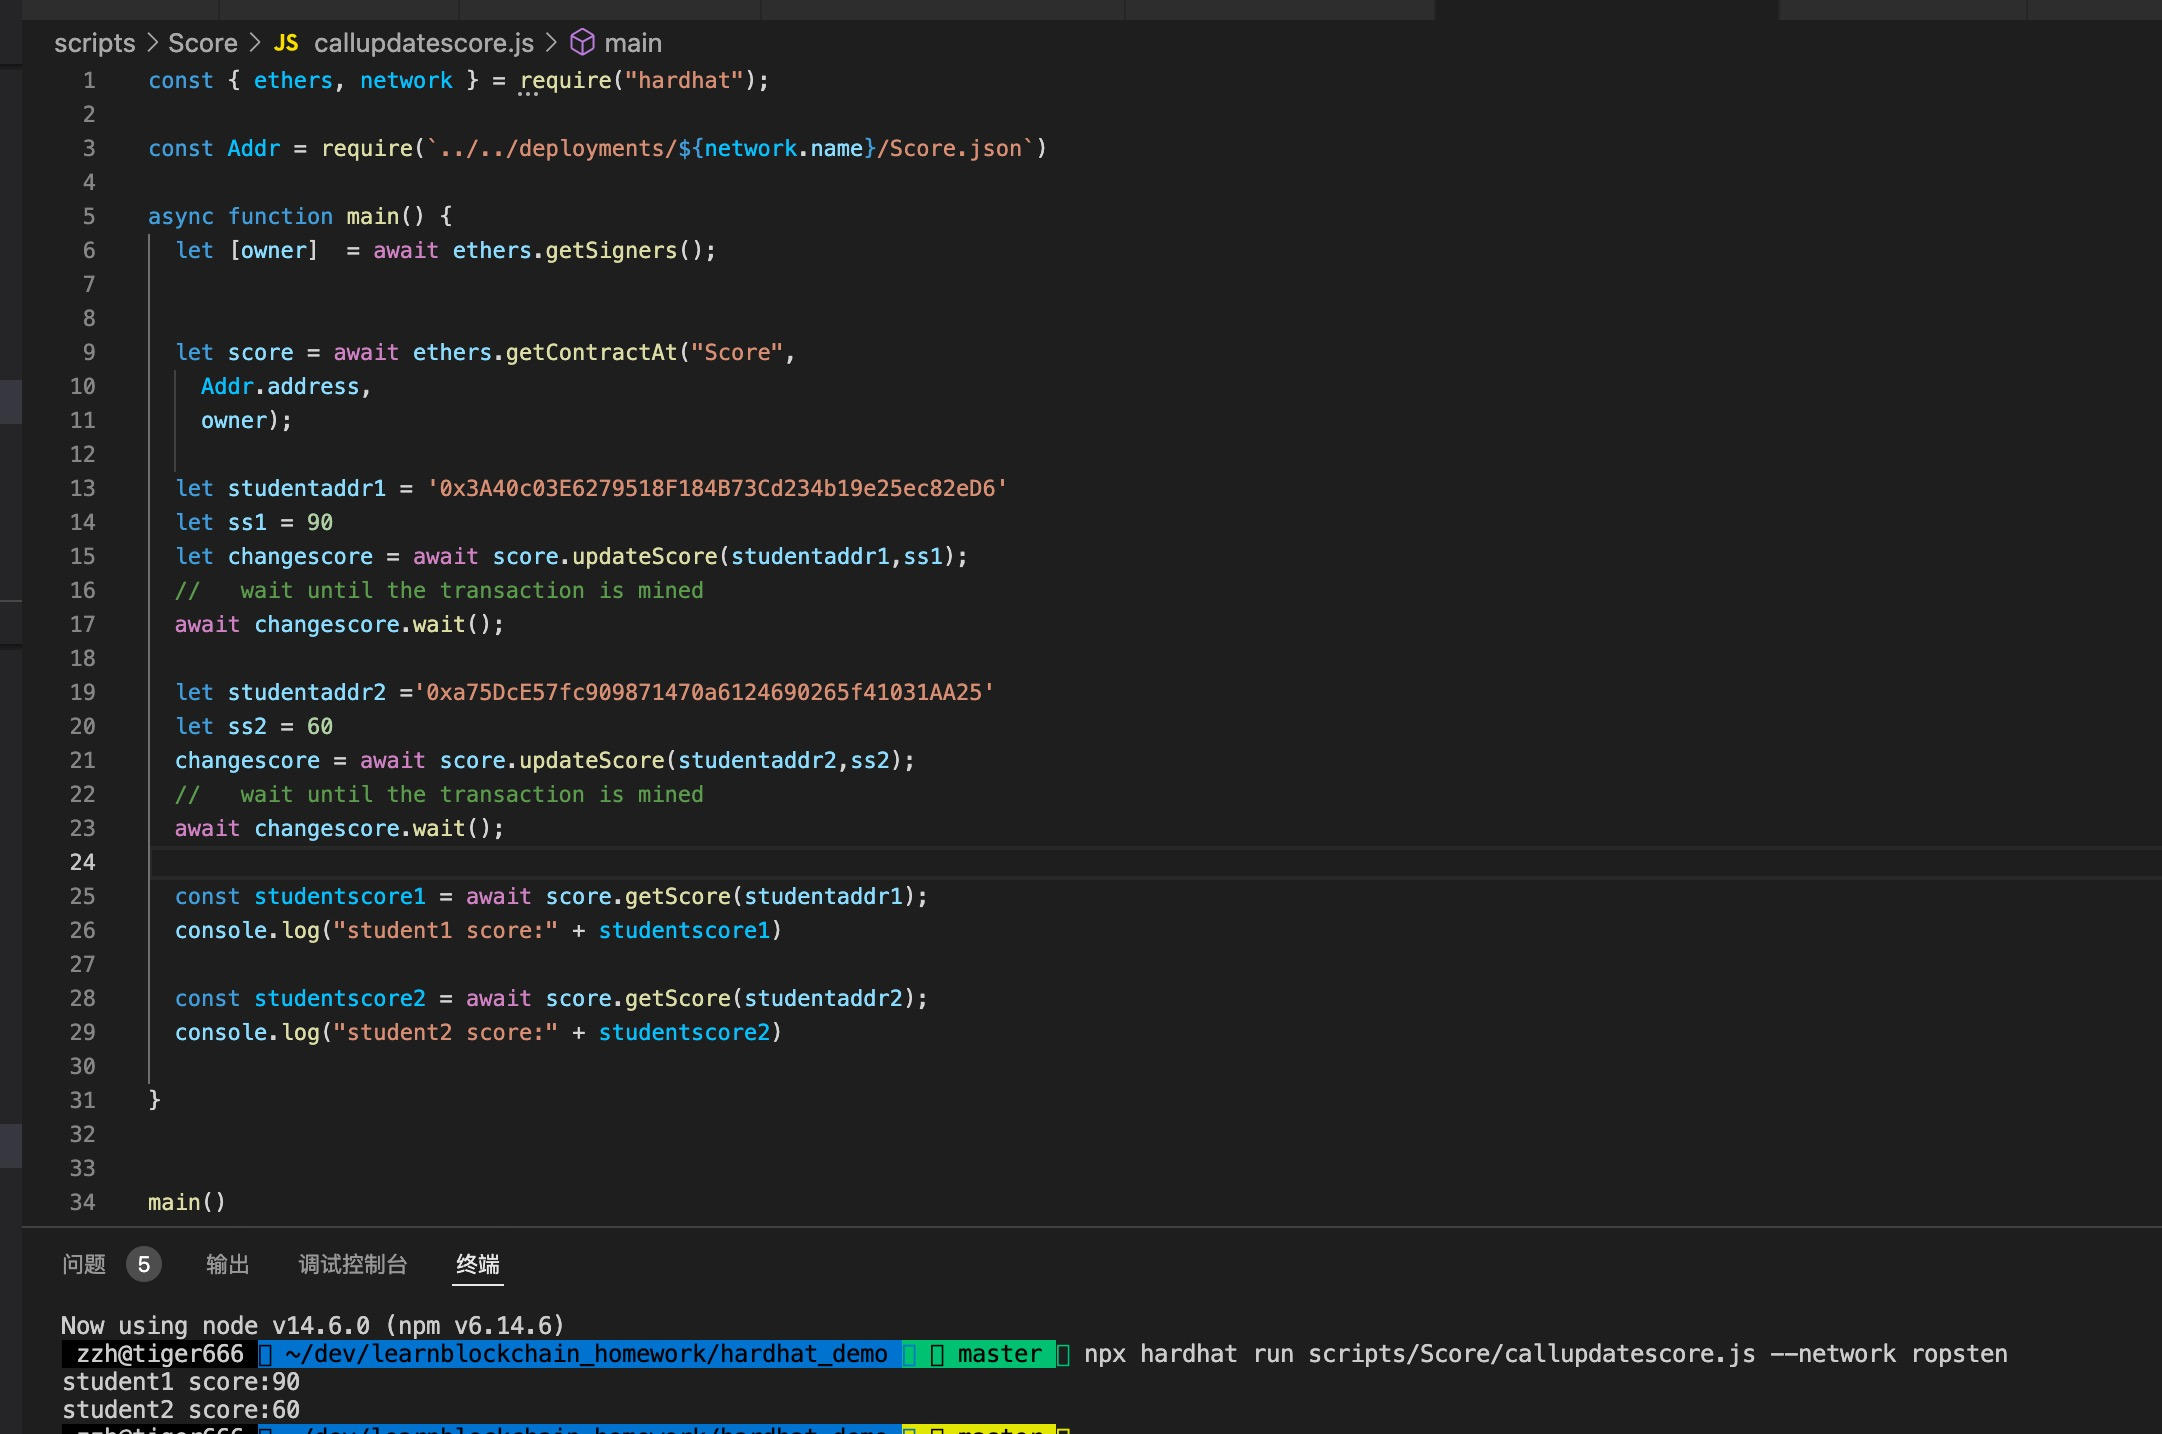
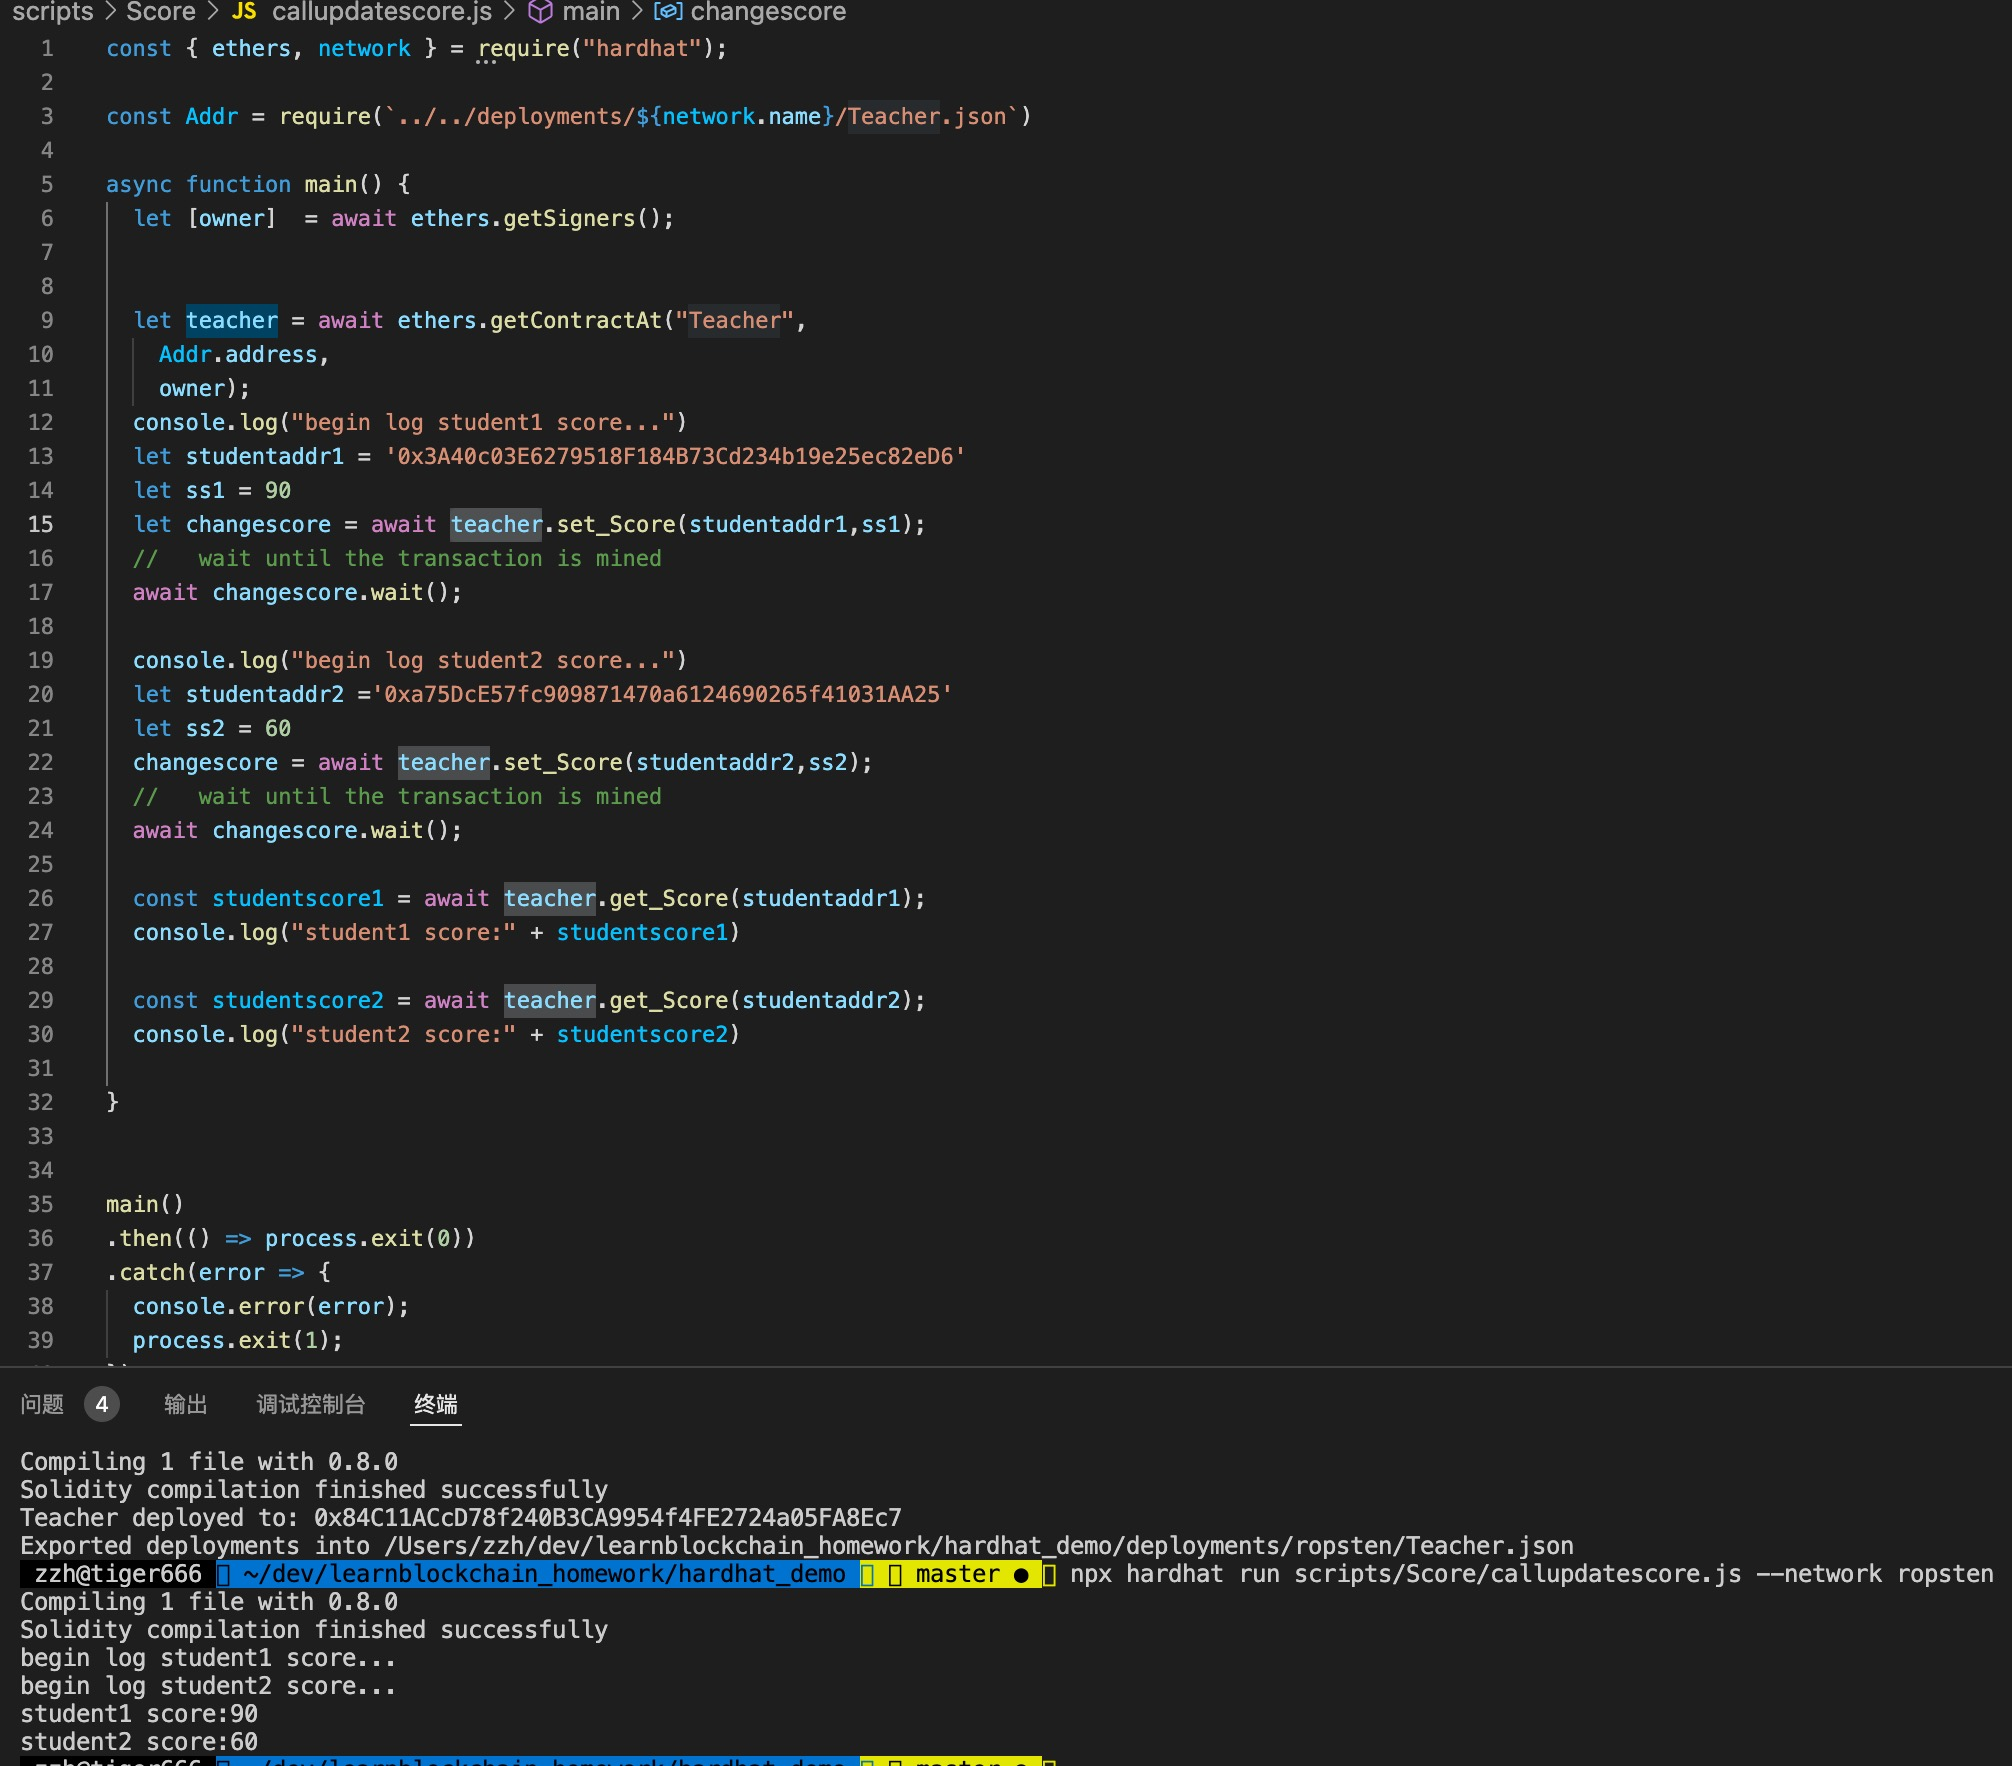
update w2-2

Changed region(s): [[0.0, 0.0, 0.832, 1.0], [0.832, 0.8898, 0.9245, 0.9512], [0.9553, 0.8898, 0.9861, 0.9205]]

diff --git a/hardhat_demo/scripts/Score/deploy_teacher.js b/hardhat_demo/scripts/Score/deploy_teacher.js
@@ -1,0 +1,63 @@
+// // We require the Hardhat Runtime Environment explicitly here. This is optional
+// // but useful for running the script in a standalone fashion through `node <script>`.
+// //
+// // When running the script with `npx hardhat run <script>` you'll find the Hardhat
+// // Runtime Environment's members available in the global scope.
+// // const { ethers,network,artifacts } = require("hardhat");
+// const hre = require("hardhat");
+
+// async function main() {
+//   // Hardhat always runs the compile task when running scripts with its command
+//   // line interface.
+//   //
+//   // If this script is run directly using `node` you may want to call compile
+//   // manually to make sure everything is compiled
+//   // await hre.run('compile');
+
+//   // We get the contract to deploy
+//   const Counter = await hre.ethers.getContractFactory("Counter");
+//   // const counter = await Counter.deploy("Hello, Hardhat!");
+//   const counter = await Counter.deploy();
+
+//   await counter.deployed();
+
+//   console.log("Counter deployed to:", counter.address);
+
+//   let Artifact = await artifacts.readArtifact("Counter");
+//   await writeAbiAddr(Artifact,counter.address,"Counter",network.name)
+// }
+
+// // We recommend this pattern to be able to use async/await everywhere
+// // and properly handle errors.
+// main()
+//   .then(() => process.exit(0))
+//   .catch((error) => {
+//     console.error(error);
+//     process.exit(1);
+//   });
+const { ethers, network, artifacts } = require("hardhat");
+
+const { writeAbiAddr } = require('../artifact_saver.js');
+
+
+async function main() {
+  // await hre.run('compile');
+  const Teacher = await ethers.getContractFactory("Teacher");
+  const teacher = await Teacher.deploy();
+
+  await teacher.deployed();
+  console.log("Teacher deployed to:", teacher.address);
+
+  let Artifact = await artifacts.readArtifact("Teacher");
+  await writeAbiAddr(Artifact, teacher.address, "Teacher", network.name);
+
+  // console.log(`Please verify: npx hardhat verify ${counter.address}`);
+
+}
+
+main()
+  .then(() => process.exit(0))
+  .catch((error) => {
+    console.error(error);
+    process.exit(1);
+  });

diff --git a/hardhat_demo/scripts/Score/callupdatescore.js b/hardhat_demo/scripts/Score/callupdatescore.js
@@ -1,31 +1,32 @@
 const { ethers, network } = require("hardhat");
 
-const Addr = require(`../../deployments/${network.name}/Score.json`)
+const Addr = require(`../../deployments/${network.name}/Teacher.json`)
 
 async function main() {
   let [owner]  = await ethers.getSigners();
 
 
-  let score = await ethers.getContractAt("Score",
+  let teacher = await ethers.getContractAt("Teacher",
     Addr.address,
     owner);
-
+  console.log("begin log student1 score...")
   let studentaddr1 = '0x3A40c03E6279518F184B73Cd234b19e25ec82eD6'
   let ss1 = 90
-  let changescore = await score.updateScore(studentaddr1,ss1);
+  let changescore = await teacher.set_Score(studentaddr1,ss1);
   //   wait until the transaction is mined
   await changescore.wait();
 
+  console.log("begin log student2 score...")
   let studentaddr2 ='0xa75DcE57fc909871470a6124690265f41031AA25'
   let ss2 = 60
-  changescore = await score.updateScore(studentaddr2,ss2);
+  changescore = await teacher.set_Score(studentaddr2,ss2);
   //   wait until the transaction is mined
   await changescore.wait();
 
-  const studentscore1 = await score.getScore(studentaddr1);
+  const studentscore1 = await teacher.get_Score(studentaddr1);
   console.log("student1 score:" + studentscore1)
 
-  const studentscore2 = await score.getScore(studentaddr2);
+  const studentscore2 = await teacher.get_Score(studentaddr2);
   console.log("student2 score:" + studentscore2)
 
 }

diff --git a/w2/w2-2.md b/w2/w2-2.md
@@ -11,16 +11,19 @@
 * 编写合约 Teacher 作为⽼师，通过 IScore 接⼝调⽤修改学⽣分数。
 
 ### 作业内容
-- [Score合约地址](https://ropsten.etherscan.io/address/0xe5599C7782034C97d72A0f2B56b5A968F12e26aA)
+- [Score合约地址](https://ropsten.etherscan.io/address/0xf4ec7D30A0E67CdB7FB1f549e8E8b2520E683E74)
+- [Teacher合约地址](https://ropsten.etherscan.io/address/0x84C11ACcD78f240B3CA9954f4FE2724a05FA8Ec7)
 
 ### Q1：编写合约Score，⽤于记录学⽣（地址）分数
   - 仅有⽼师（⽤modifier权限控制）可以添加和修改学⽣分数
   - 分数不可以⼤于 100；
 ### A1：
   - Score合约源码,见hardhat_demo/contracts/Score.sol
+  - Score部署的脚本见：hardhat_demo/scripts/Score/deploy_score.js
 
 ### Q2：编写合约 Teacher 作为⽼师，通过 IScore 接⼝调⽤修改学⽣分数。
 ### A2：
-- Teacher合约:见hardhat_demo/contracts/Score.sol
+- Teacher合约:见hardhat_demo/contracts/Teacher.sol
+- Teacher部署的脚本见:hardhat_demo/scripts/Score/deploy_teacher.js
 - 调用调⽤修改学⽣分数updateScore()的示例见:hardhat_demo/scripts/Score/callupdatescore.js
 ![修改学⽣分数updateScore](../pic/score_update.jpg)

diff --git a/hardhat_demo/README.md b/hardhat_demo/README.md
@@ -22,4 +22,7 @@ npx hardhat run scripts/deploy_counter01.js --network ropsten
 npx hardhat run scripts/callcount.js --network ropsten
 
 npx hardhat run scripts/Bank/deploy_bank.js --network ropsten 
+
+ npx hardhat run scripts/Score/deploy_score.js --network ropsten
+  npx hardhat run scripts/Score/deploy_Teacher.js --network ropsten
 ````
